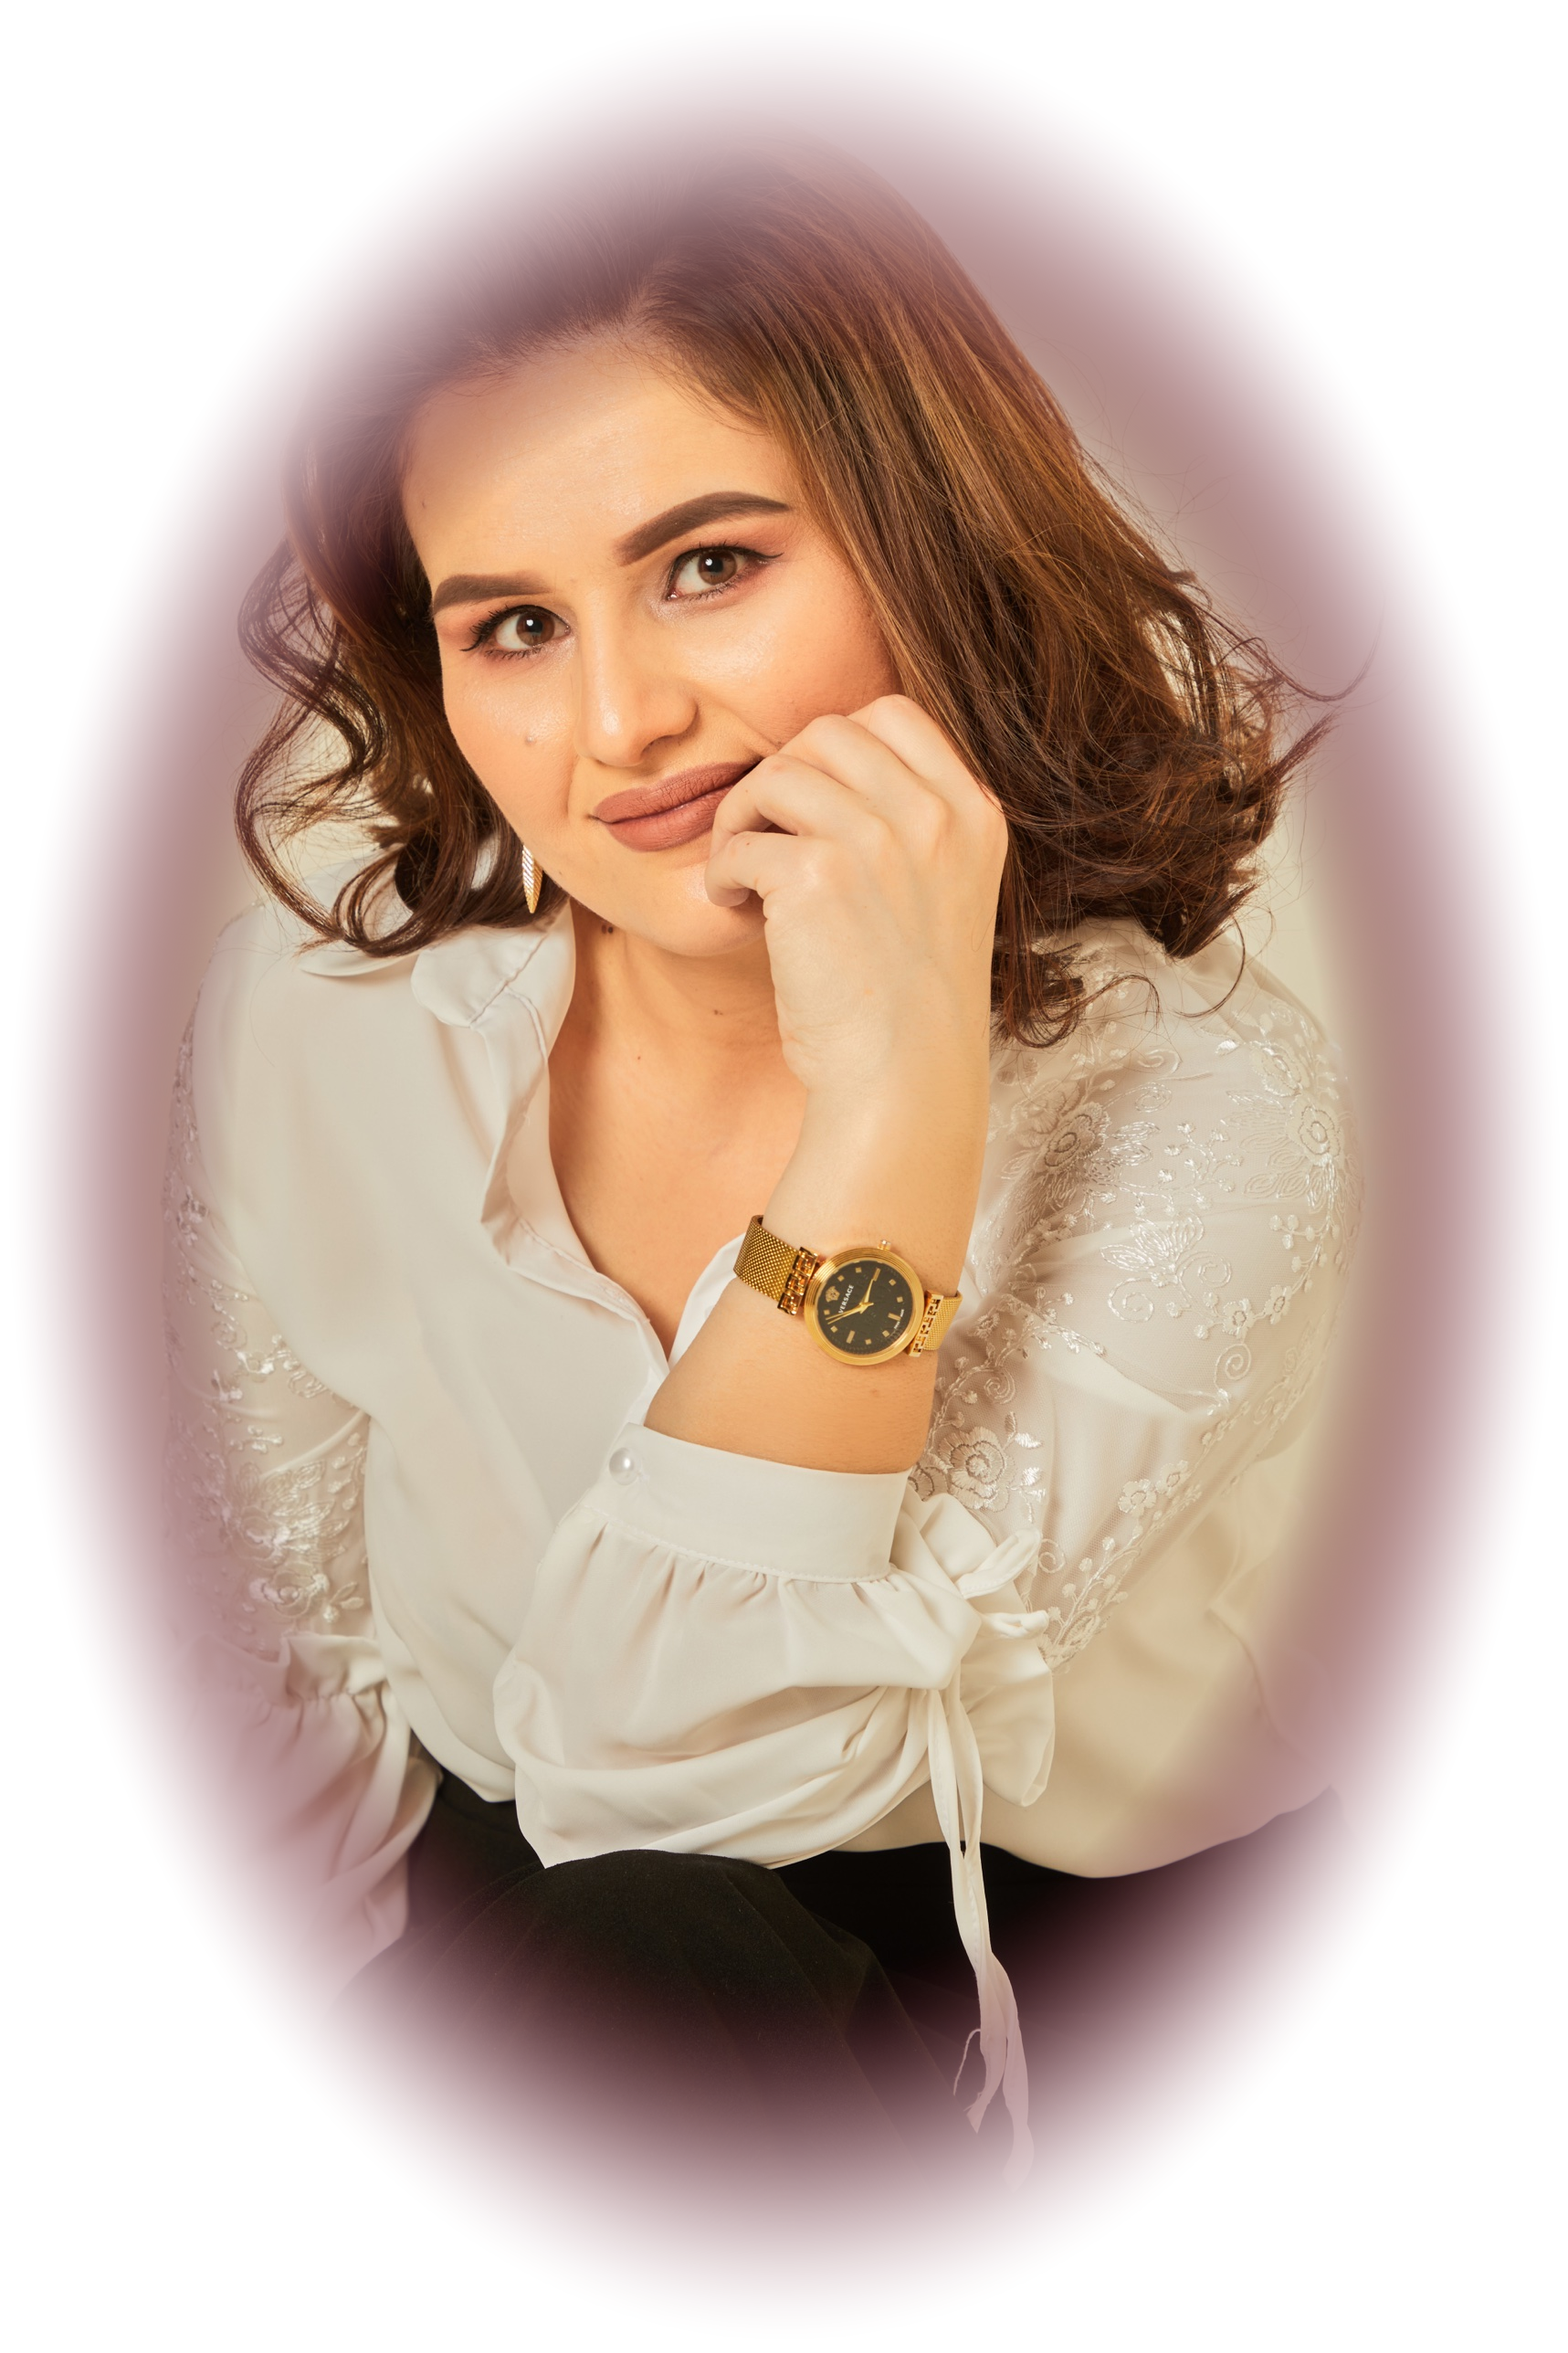
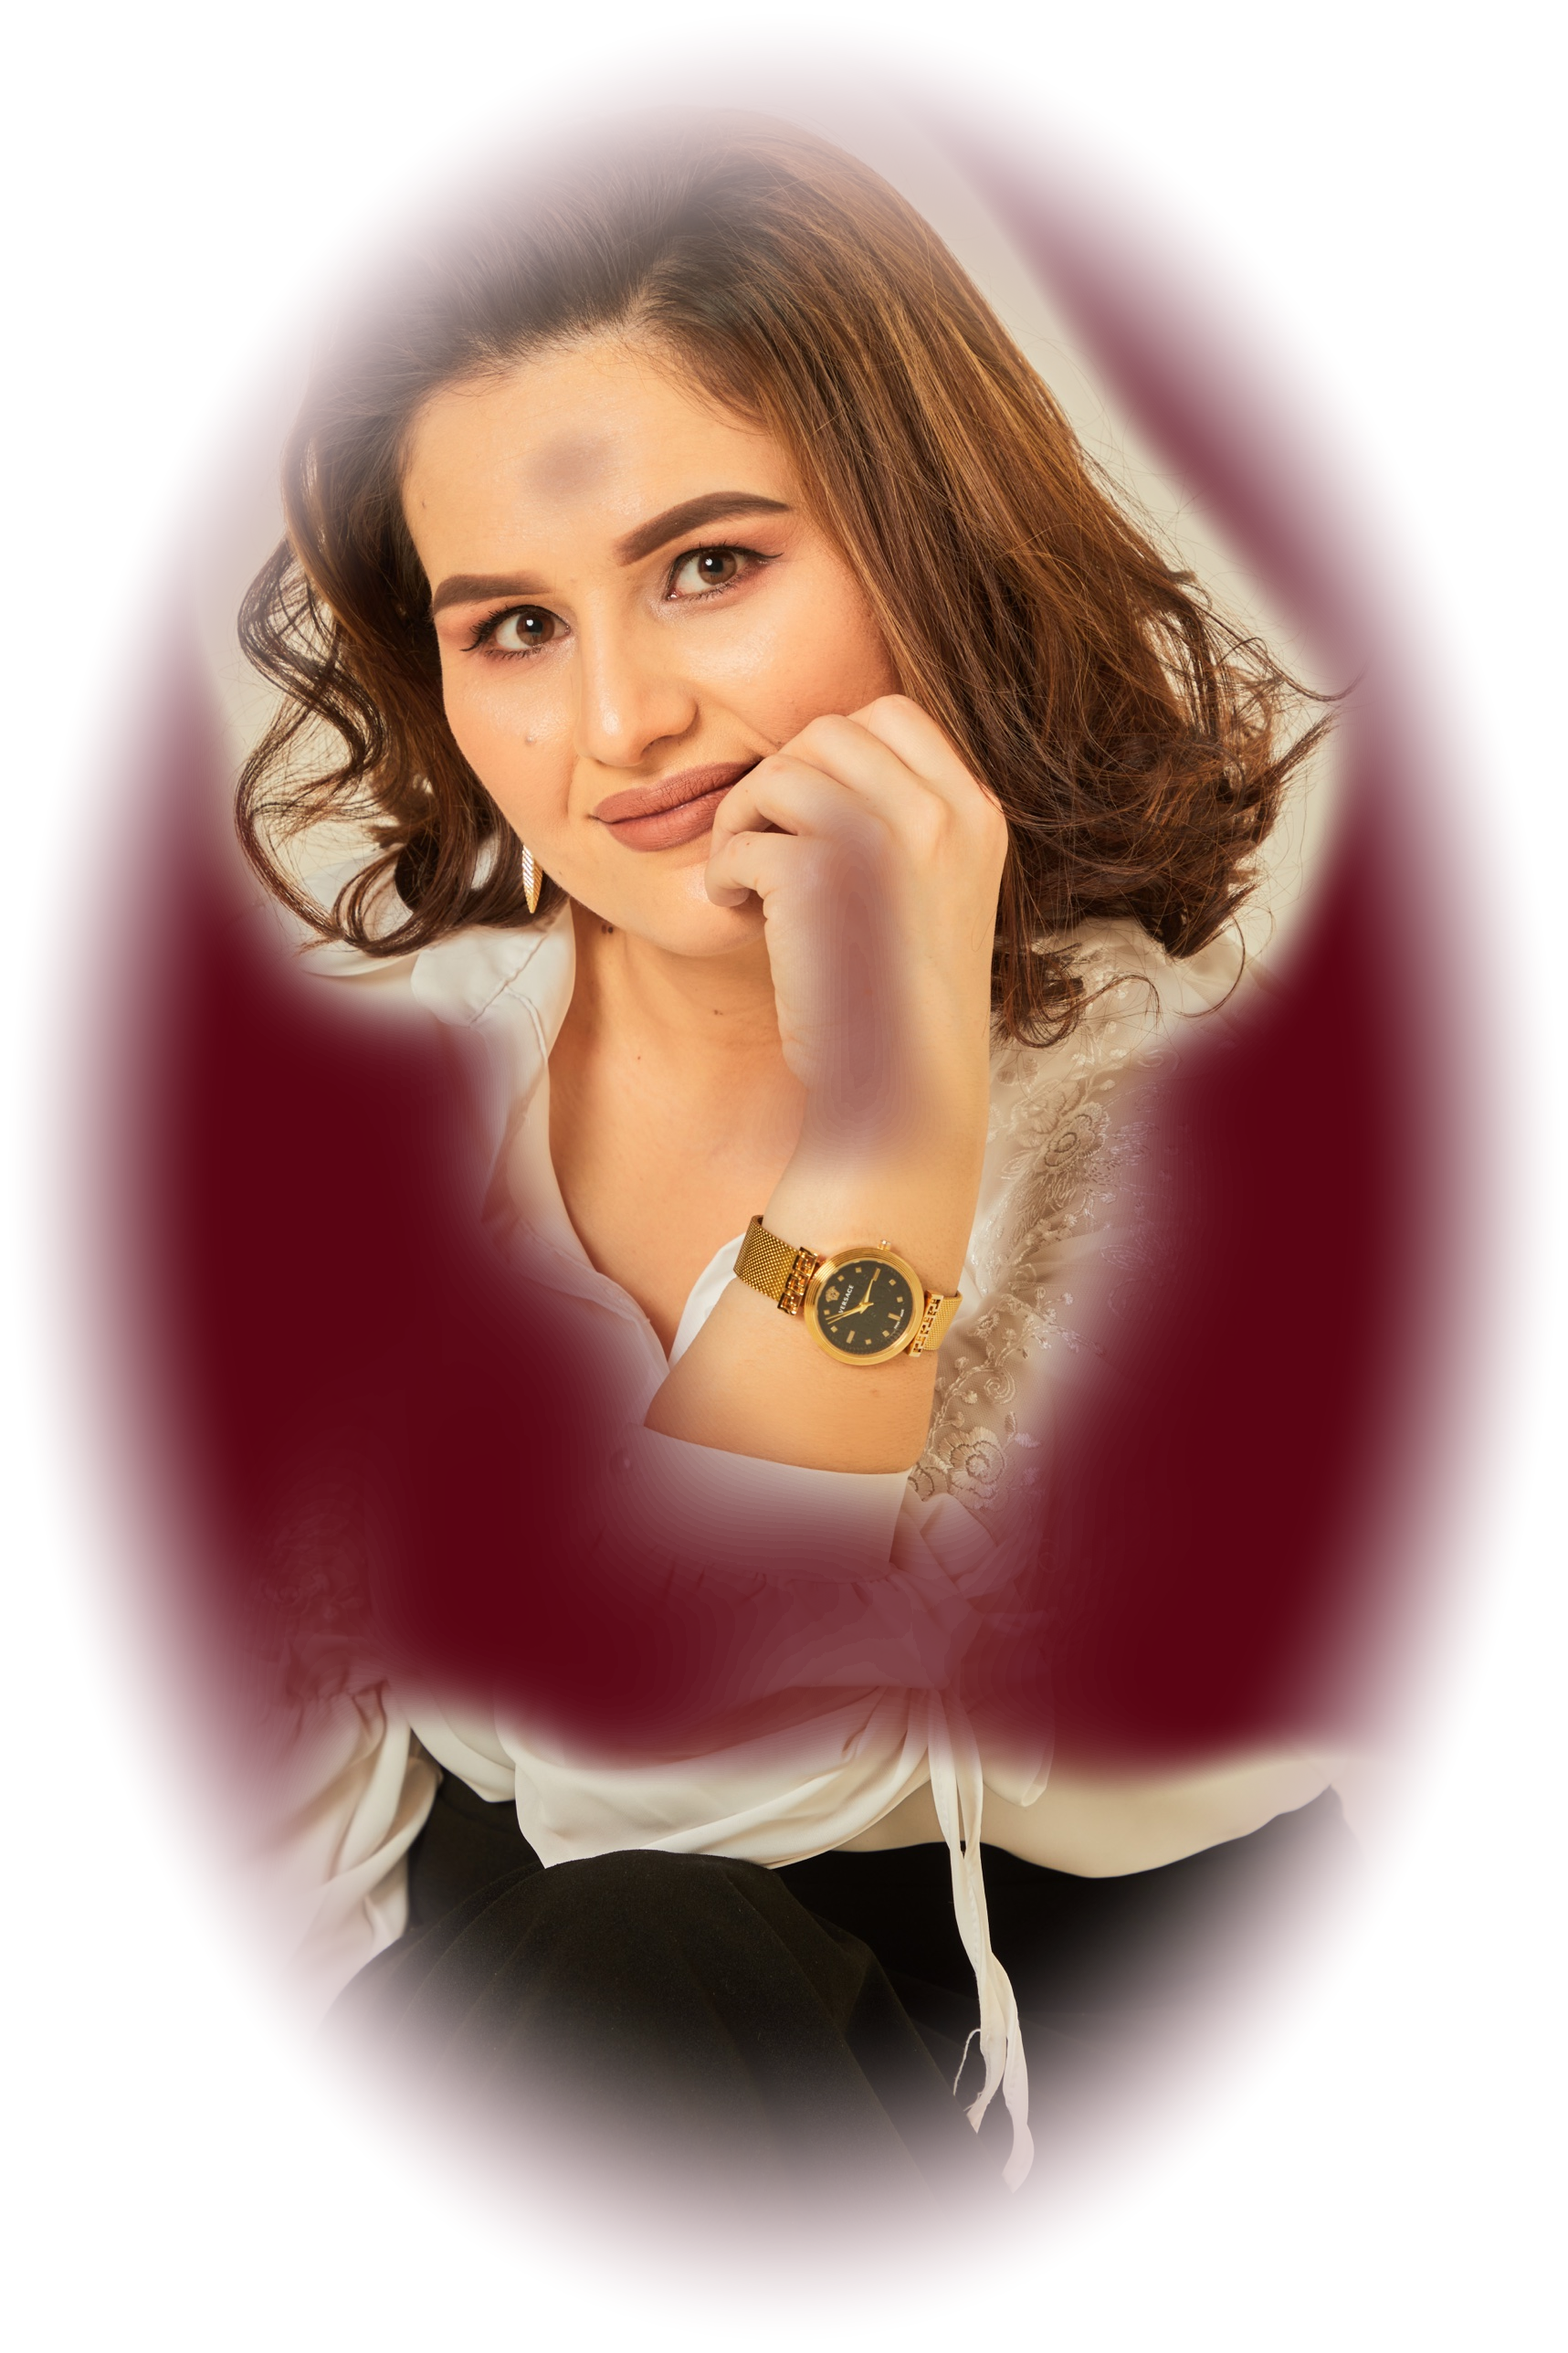
Add the modern accent marks and both portrait cutouts
The minimal mark set (arc, rule-and-dot, plus, sunburst, brackets) that
suits the modern redirect, plus background-removed portraits with
feathered variants for placing the figures frameless.

Claude-Session: https://claude.ai/code/session_01CJcxAKvhDYH9Z96uyo456t

diff --git a/diva-club-posts/variant-c.html b/diva-club-posts/variant-c.html
@@ -8,9 +8,10 @@
 <style>
 /* =======================================================================
    VARIANT C — "Editorial"
-   Photography leads. Mohinur full-bleed and enormous, dissolving into a
-   deep-maroon field. Modern fashion-magazine grid: one hairline, small-caps
-   Jost labels, oversized Playfair. No frames, no circles, no ornament.
+   Photography leads. Mohinur full-bleed and enormous, her near-black studio
+   ground dissolved into deep maroon. Modern fashion-magazine grid: hairline
+   gold rules, small-caps Jost labels, oversized Playfair.
+   No frames, no circles, no ornament.
    ======================================================================= */
 
 .canvas {
@@ -18,10 +19,10 @@
   color: var(--cream);
   font-family: var(--serif);
 
-  /* hero framing (uniform scale: height drives, width is auto) */
-  --hz: 126%;          /* image height vs canvas height */
-  --hx: -248px;        /* image left offset */
-  --hy: -242px;        /* image top offset  */
+  /* hero framing — uniform scale: height drives, width stays auto */
+  --hz: 118%;
+  --hx: -57px;
+  --hy: -190px;
 
   /* type scale */
   --t-title: 110px;
@@ -30,18 +31,18 @@
   --t-theme: 44px;
   --t-name: 38px;
   --t-role: 29px;
-  --t-date: 46px;
+  --t-date: 48px;
   --t-city: 23px;
 
   /* layout */
-  --gutter: 54px;
-  --sw: 380px;         /* sarvinoz block width  */
-  --sh: 450px;         /* sarvinoz block height */
+  --gutter: 56px;
+  --sw: 400px;
+  --sh: 470px;
 }
 
 /* ---------------------------------------------------------------- hero -- */
 .hero { position: absolute; inset: 0; overflow: hidden; }
-.hero img {
+.hero > img {
   position: absolute;
   height: var(--hz);
   width: auto;
@@ -49,42 +50,41 @@
   top: var(--hy);
   display: block;
 }
+.hero > .tone,
+.hero > .scrim,
+.hero > .side { position: absolute; inset: 0; pointer-events: none; }
 
-/* warms the near-black studio ground into deep maroon without crushing the
-   face — screen lifts the blacks, the face only gains a touch of warmth */
+/* screen lifts the near-black ground into deep maroon; the face only warms */
 .tone {
-  background: linear-gradient(168deg, #430316 0%, #340210 46%, #34020c 100%);
+  background: linear-gradient(168deg, #450318 0%, #360211 48%, #34020c 100%);
   mix-blend-mode: screen;
 }
 
-/* the scrim is a long ramp that stays at ZERO across her face */
-.scrim { background: var(--scrim); }
-.canvas {
-  --scrim: linear-gradient(180deg,
-      rgba(34,1,8,0.46) 0%,
-      rgba(34,1,8,0.10) 8%,
-      rgba(34,1,8,0.00) 20%,
-      rgba(34,1,8,0.00) 42%,
-      rgba(42,1,10,0.38) 47%,
-      rgba(46,2,11,0.80) 50.5%,
-      rgba(52,2,12,0.96) 54%,
-      #34020c 58%,
+/* the scrim is a long ramp that sits at ZERO opacity across her face */
+.scrim {
+  background: linear-gradient(180deg,
+      rgba(34,1,8,0.50) 0%,
+      rgba(34,1,8,0.12) 7%,
+      rgba(34,1,8,0.00) 18%,
+      rgba(34,1,8,0.00) 40%,
+      rgba(40,1,10,0.30) 44%,
+      rgba(45,2,11,0.72) 47.5%,
+      rgba(50,2,12,0.94) 51%,
+      #34020c 55%,
       #34020c 100%);
 }
 
-/* a quiet horizontal falloff so the left margin never competes with her */
-.side {
-  background: linear-gradient(90deg, rgba(34,1,8,0.42) 0%, rgba(34,1,8,0.0) 26%);
-}
+/* quiet horizontal falloff so the left margin never competes with her */
+.side { background: linear-gradient(90deg, rgba(34,1,8,0.46) 0%, rgba(34,1,8,0) 30%); }
 
 /* ------------------------------------------------------------- masthead -- */
 .mark {
   position: absolute;
   top: var(--pad);
   left: var(--pad);
-  width: 232px;
+  width: 226px;
   height: auto;
-  filter: drop-shadow(0 2px 20px rgba(0,0,0,0.45));
+  filter: drop-shadow(0 2px 22px rgba(0,0,0,0.5));
 }
 
 /* ---------------------------------------------------------------- stack -- */
@@ -98,12 +98,15 @@
   align-items: stretch;
 }
 
+.head { display: flex; align-items: flex-end; justify-content: space-between; gap: 40px; }
+.head .mark-inline { display: none; }
+
 .title {
   font-family: var(--display);
   font-weight: 500;
   font-size: var(--t-title);
   line-height: 0.98;
-  letter-spacing: -0.018em;
+  letter-spacing: -0.02em;
   margin: 0;
   color: #fdf7ee;
 }
@@ -119,11 +122,11 @@
   margin-top: 14px;
 }
 
-.rule { height: 1px; background: rgba(201,162,91,0.55); flex: 0 0 auto; }
+.rule { height: 1px; background: rgba(201,162,91,0.5); flex: 0 0 auto; }
 .r1 { margin-top: 44px; }
 .r2 { margin-top: 38px; }
 
-/* the information row: text column + guest-speaker portrait */
+/* information row: text column + guest-speaker portrait */
 .row {
   display: flex;
   align-items: flex-start;
@@ -149,7 +152,6 @@
   line-height: 1.2;
   color: #fdf7ee;
   margin-top: 14px;
-  letter-spacing: 0.002em;
 }
 
 .spk { margin-top: 40px; }
@@ -177,42 +179,34 @@
   width: var(--sw);
   height: var(--sh);
   overflow: hidden;
-  background: #e9ded0;
+  background: #e6d8ca;
 }
 .sarv img {
   width: 100%; height: 100%;
   object-fit: cover;
-  object-position: 45% 11%;
+  object-position: 45% 6%;
   display: block;
-  filter: saturate(0.9) contrast(1.02) brightness(1.01);
+  filter: saturate(0.8) contrast(1.05) sepia(0.12);
 }
 .sarv::after {
   content: "";
   position: absolute; inset: 0;
-  background: linear-gradient(180deg, rgba(147,6,31,0.06), rgba(122,5,25,0.16));
+  background: linear-gradient(200deg, rgba(232,205,198,0.34), rgba(201,140,138,0.46));
   mix-blend-mode: multiply;
 }
 
+/* second-panel variant used only by the 1:1 double portrait */
+.duo { display: none; }
+
 /* ----------------------------------------------------------------- when -- */
-.when {
-  display: flex;
-  align-items: baseline;
-  gap: 26px;
-  margin-top: 28px;
-}
+.when { display: flex; align-items: baseline; gap: 26px; margin-top: 28px; }
 .date {
   font-family: var(--display);
   font-weight: 500;
   font-size: var(--t-date);
   color: #fdf7ee;
-  letter-spacing: 0.004em;
 }
-.bar {
-  width: 46px; height: 1px;
-  background: var(--gold);
-  align-self: center;
-  flex: 0 0 auto;
-}
+.bar { width: 46px; height: 1px; background: var(--gold); align-self: center; flex: 0 0 auto; }
 .city {
   font-family: var(--sans);
   font-weight: 300;
@@ -227,65 +221,101 @@
 
 /* ---- 9:16 — full-height portrait, type stacked low ---- */
 html[data-r="9x16"] .canvas {
-  --hz: 126%; --hx: -248px; --hy: -242px;
+  --hz: 118%; --hx: -57px; --hy: -190px;
   --t-title: 110px; --t-with: 46px; --t-theme: 44px; --t-name: 38px;
   --t-role: 29px; --t-date: 48px; --t-city: 23px;
-  --sw: 380px; --sh: 450px; --gutter: 56px;
+  --sw: 400px; --sh: 470px; --gutter: 56px;
 }
 
-/* ---- 4:5 — portrait right, information band low ---- */
+/* ---- 4:5 — portrait dominates, wide guest block bottom-left ---- */
 html[data-r="4x5"] .canvas {
-  --hz: 128%; --hx: -160px; --hy: -190px;
-  --t-title: 84px; --t-with: 38px; --t-label: 15px; --t-theme: 36px;
-  --t-name: 32px; --t-role: 25px; --t-date: 40px; --t-city: 19px;
-  --sw: 290px; --sh: 320px; --gutter: 44px;
+  --hz: 132%; --hx: -50px; --hy: -195px;
+  --t-title: 78px; --t-with: 36px; --t-label: 15px; --t-theme: 34px;
+  --t-name: 30px; --t-role: 24px; --t-date: 40px; --t-city: 19px;
+  --sw: 330px; --sh: 330px; --gutter: 44px;
 }
-html[data-r="4x5"] .mark { width: 196px; }
+html[data-r="4x5"] .mark { width: 190px; }
 html[data-r="4x5"] .row { flex-direction: row-reverse; margin-top: 30px; }
 html[data-r="4x5"] .r1 { margin-top: 32px; }
 html[data-r="4x5"] .r2 { margin-top: 30px; }
-html[data-r="4x5"] .when { margin-top: 22px; }
-html[data-r="4x5"] .spk { margin-top: 28px; }
+html[data-r="4x5"] .when { margin-top: 20px; }
+html[data-r="4x5"] .spk { margin-top: 30px; }
 
-/* ---- 1:1 — hard vertical split: photo column | type column ---- */
+/* ---- 1:1 — double-portrait band over a full-width type band ---- */
 html[data-r="1x1"] .canvas {
-  --hz: 118%; --hx: -126px; --hy: -78px;
-  --split: 520px;
-  --t-title: 66px; --t-with: 32px; --t-label: 14px; --t-theme: 30px;
-  --t-name: 28px; --t-role: 22px; --t-date: 34px; --t-city: 17px;
+  --band: 542px;
+  --seam: 632px;
+  --hz: 232%; --hx: -152px; --hy: -110px;
+  --t-title: 60px; --t-with: 31px; --t-label: 13px; --t-theme: 28px;
+  --t-name: 27px; --t-role: 22px; --t-date: 34px; --t-city: 16px;
+  --gutter: 48px;
 }
-html[data-r="1x1"] .hero { inset: 0 auto 380px 0; width: var(--split); }
-html[data-r="1x1"] .scrim,
-html[data-r="1x1"] .side { display: none; }
-html[data-r="1x1"] .tone { inset: 0 auto 380px 0; width: var(--split); }
-html[data-r="1x1"] .mark { left: calc(var(--split) + 70px); top: 66px; width: 178px; }
-html[data-r="1x1"] .stack { left: calc(var(--split) + 70px); right: var(--pad); bottom: var(--pad); }
-html[data-r="1x1"] .row { display: block; margin-top: 26px; }
+html[data-r="1x1"] .hero { inset: 0 auto auto 0; width: var(--seam); height: var(--band); }
+html[data-r="1x1"] .hero > .scrim { display: none; }
+html[data-r="1x1"] .hero > .side { background: linear-gradient(90deg, rgba(34,1,8,0.34) 0%, rgba(34,1,8,0) 26%); }
+html[data-r="1x1"] .mark { display: none; }
+html[data-r="1x1"] .head .mark-inline {
+  display: block;
+  width: 168px; height: auto;
+  flex: 0 0 auto;
+  margin-bottom: 6px;
+}
+html[data-r="1x1"] .duo {
+  display: block;
+  position: absolute;
+  top: 0; left: var(--seam); right: 0;
+  height: var(--band);
+  overflow: hidden;
+  background: #e6d8ca;
+}
+html[data-r="1x1"] .duo > img {
+  position: absolute;
+  height: 178%;
+  width: auto;
+  left: -62px;
+  top: -38px;
+  display: block;
+  filter: saturate(0.8) contrast(1.05) sepia(0.12);
+}
+html[data-r="1x1"] .duo::after {
+  content: "";
+  position: absolute; inset: 0;
+  background: linear-gradient(200deg, rgba(232,205,198,0.34), rgba(201,140,138,0.46));
+  mix-blend-mode: multiply;
+}
+html[data-r="1x1"] .sarv { display: none; }
+html[data-r="1x1"] .stack { left: var(--pad); right: var(--pad); bottom: var(--pad); }
 html[data-r="1x1"] .r1 { margin-top: 26px; }
 html[data-r="1x1"] .r2 { margin-top: 24px; }
+html[data-r="1x1"] .row { margin-top: 24px; }
+html[data-r="1x1"] .col { flex: 1 1 56%; }
+html[data-r="1x1"] .spk { display: block; margin-top: 0; flex: 1 1 44%; }
 html[data-r="1x1"] .when { margin-top: 20px; }
-html[data-r="1x1"] .sarv {
-  position: absolute;
-  left: 0; bottom: 0;
-  width: var(--split); height: 380px;
-}
-html[data-r="1x1"] .sarv img { object-position: 45% 9%; }
-html[data-r="1x1"] .spk { margin-top: 26px; }
 </style>
 </head>
 <body>
 <div class="canvas">
-  <div class="hero"><img src="assets/mohinur.jpg" alt="Mohinur Abdullayeva"></div>
-  <div class="layer tone"></div>
-  <div class="layer side"></div>
-  <div class="layer scrim"></div>
+  <div class="hero">
+    <img src="assets/mohinur.jpg" alt="Mohinur Abdullayeva">
+    <div class="tone"></div>
+    <div class="side"></div>
+    <div class="scrim"></div>
+  </div>
+
+  <div class="duo"><img src="assets/sarvinoz.jpg" alt="Sarvinoz Alisherovna"></div>
+
   <div class="layer grain"></div>
 
   <img class="mark" src="assets/logo-white-trim.png" alt="Diva Women Networking Club">
 
   <div class="stack">
-    <h1 class="title">Diva klubi<br><em>uchrashuvi</em></h1>
-    <div class="with">Mohinur Abdullayeva bilan</div>
+    <div class="head">
+      <div class="headtext">
+        <h1 class="title">Diva klubi<br><em>uchrashuvi</em></h1>
+        <div class="with">Mohinur Abdullayeva bilan</div>
+      </div>
+      <img class="mark-inline" src="assets/logo-cream-trim.png" alt="Diva Women Networking Club">
+    </div>
 
     <div class="rule r1"></div>
 
